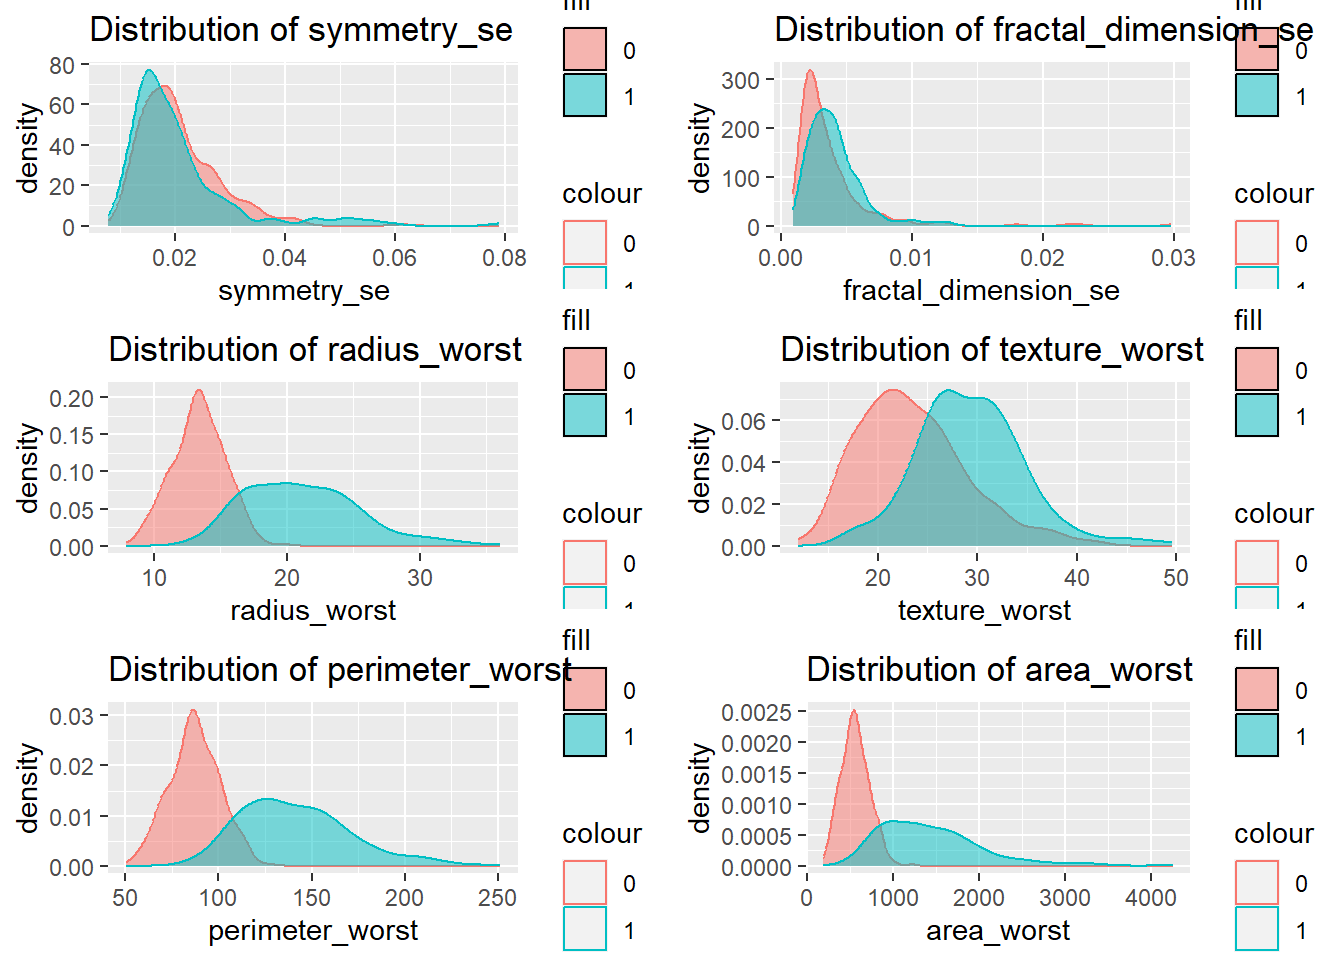
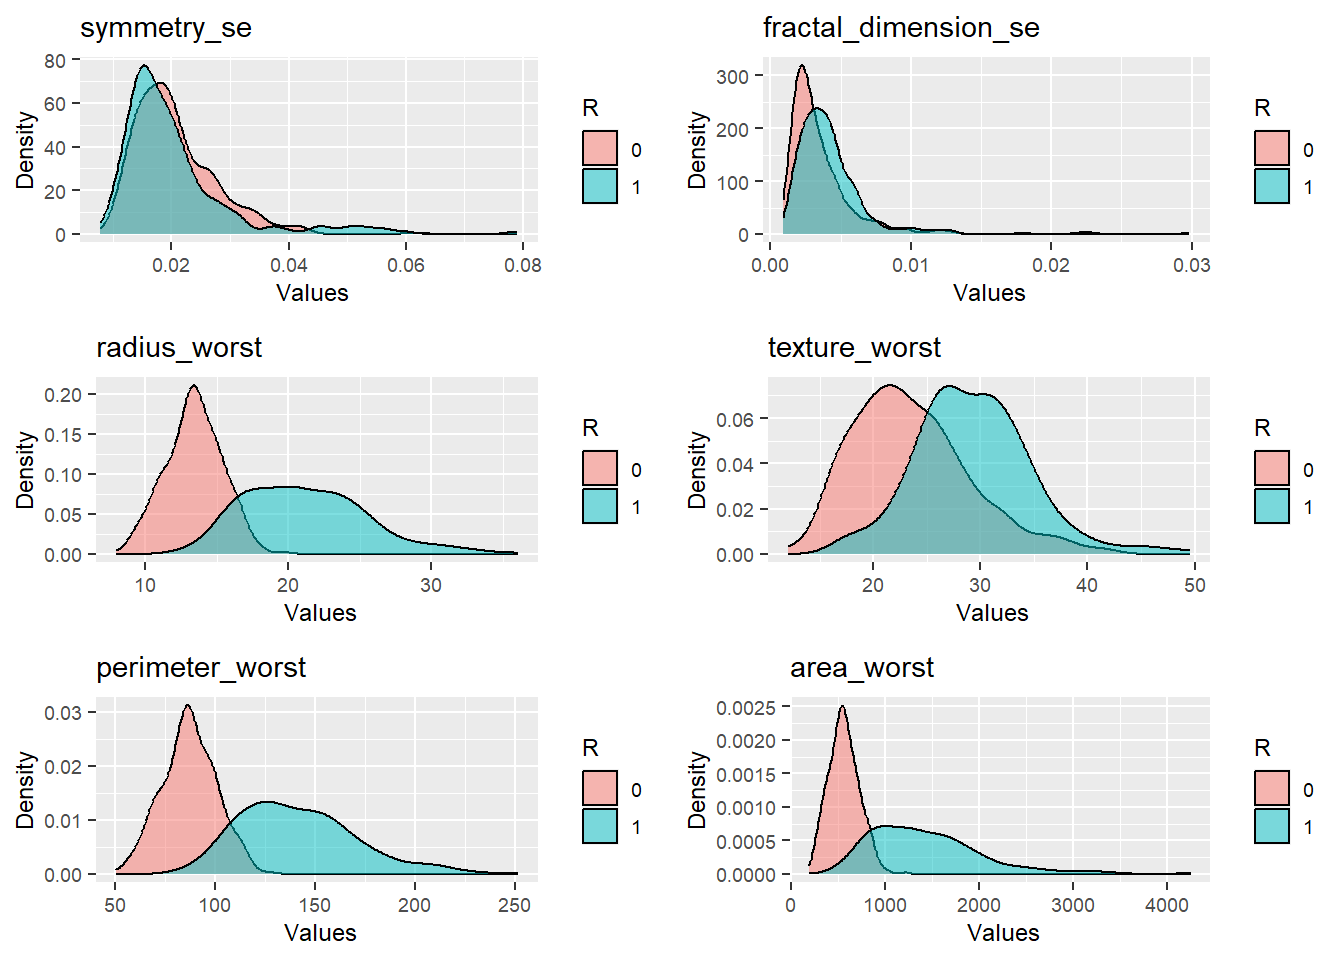
First visualization plot

diff --git a/docs/index.html b/docs/index.html
@@ -530,12 +530,15 @@ library(ggplot2)
 #target_variables &lt;- colnames(data)[2:7]
 
 
+
 mulplot&lt;-function(df,vars){
   my_plots_list &lt;-lapply(vars, function(each_variable) {
-    ggplot(df, aes_string(each_variable,fill=data$diagnosis,color=data$diagnosis)) + # NOTE - aes_string rather than aes
-      geom_density(alpha = 0.5) +ggtitle(str_c(&quot;Distribution of &quot;,each_variable)) 
+    ggplot(df, aes_string(each_variable,fill=data$diagnosis)) + # NOTE - aes_string rather than aes
+      geom_density(alpha = 0.5,linetype = 1) +ggtitle(str_c(each_variable))+
+      theme(text=element_text(size = 9),legend.key.size = unit(0.5, &#39;cm&#39;))+
+      labs(x = &quot; Values&quot;, y = &quot;Density&quot;,fill=&#39;R&#39;)
     })
-  gridExtra::grid.arrange(grobs = my_plots_list, ncol = 2)
+  gridExtra::grid.arrange(grobs = my_plots_list, ncol = 2,widths=c(10,10))
   }
 
 
